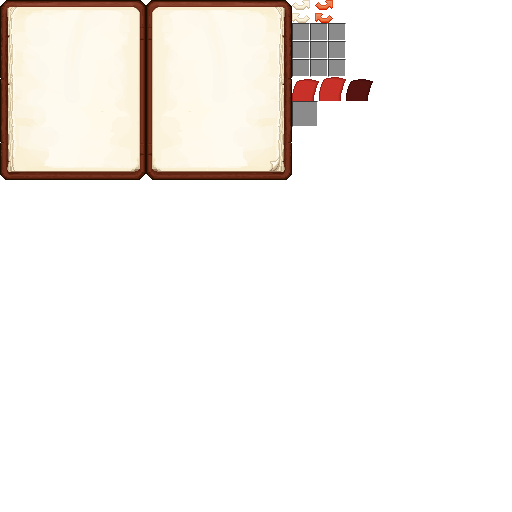
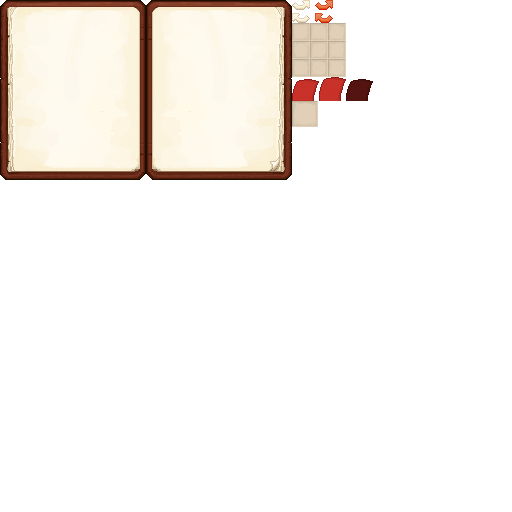
BookWiki changes * Added support for color codes * Centered recipe grid * Tweaked texture * Fixed recipe grid line offset * Fixed server crash

Changed region(s): [[0.5625, 0.0312, 0.6875, 0.1562], [0.5625, 0.1875, 0.625, 0.25]]

diff --git a/src/main/java/net/ilexiconn/bookwiki/BookWikiGui.java b/src/main/java/net/ilexiconn/bookwiki/BookWikiGui.java
@@ -1,10 +1,12 @@
 package net.ilexiconn.bookwiki;
 
+import com.google.common.collect.Lists;
 import net.minecraft.client.audio.PositionedSoundRecord;
 import net.minecraft.client.gui.GuiScreen;
 import net.minecraft.client.renderer.GlStateManager;
 import net.minecraft.client.renderer.RenderHelper;
 import net.minecraft.item.ItemStack;
+import net.minecraft.util.EnumChatFormatting;
 import net.minecraft.util.ResourceLocation;
 import net.minecraft.util.StatCollector;
 import net.minecraftforge.fml.relauncher.Side;
@@ -24,6 +26,8 @@ public class BookWikiGui extends GuiScreen {
     private RecipeRenderer recipeRenderer;
 
     public Pattern recipePattern = Pattern.compile("<r:[A-Za-z0-9]+>");
+    public Pattern colorPattern = Pattern.compile("<c:[A-Za-z]+>");
+    public String[] rainbowChars = new String[]{"4", "6", "e", "a", "9", "5"};
 
     public BookWikiGui(BookWiki bookWiki) {
         this.bookWiki = bookWiki;
@@ -67,7 +71,7 @@ public class BookWikiGui extends GuiScreen {
                 RenderHelper.disableStandardItemLighting();
             }
         }
-        List<String> lines = fontRendererObj.listFormattedStringToWidth(bookWiki.getCategoryByID(currentCategory).getDefaultPage().getContent(), 116);
+        List<String> lines = Lists.newArrayList(fontRendererObj.listFormattedStringToWidth(getContent(bookWiki.getCategoryByID(currentCategory).getDefaultPage()), 116));
         for (int i = 0; i < lines.size(); i++) {
             String line = lines.get(i);
             Matcher matcher = recipePattern.matcher(line);
@@ -77,18 +81,43 @@ public class BookWikiGui extends GuiScreen {
                     line = line.replace(group, "");
                     String id = group.substring(3, group.length() - 1);
                     BookWikiContainer.Recipe recipe = bookWiki.getRecipeByID(id);
-                    fontRendererObj.drawString(line, width / 2 - 292 / 2 + 16, height / 2 - 180 / 2 + 14 + fontRendererObj.FONT_HEIGHT * i, 0x000);
-                    recipeRenderer.render(recipe, width / 2 - 292 / 2 + 16, height / 2 - 180 / 2 + 14 + fontRendererObj.FONT_HEIGHT * (i + 1), mouseX, mouseY);
-                    continue;
+                    recipeRenderer.render(recipe, width / 2 - 292 / 2 + 16 + 16, height / 2 - 180 / 2 + 14 + fontRendererObj.FONT_HEIGHT * (i + 1), mouseX, mouseY);
                 }
                 fontRendererObj.drawString(line, width / 2 - 292 / 2 + 16, height / 2 - 180 / 2 + 14 + fontRendererObj.FONT_HEIGHT * i, 0x000);
             } else {
+                if (matcher.find()) {
+                    String group = matcher.group();
+                    line = line.replace(group, "");
+                    String id = group.substring(3, group.length() - 1);
+                    BookWikiContainer.Recipe recipe = bookWiki.getRecipeByID(id);
+                    recipeRenderer.render(recipe, width / 2 - 292 / 2 + 16 + 16 + 140, height / 2 - 180 / 2 + 14 + fontRendererObj.FONT_HEIGHT * (i - 16), mouseX, mouseY);
+                }
                 fontRendererObj.drawString(line, width / 2 - 292 / 2 + 16 + 140, height / 2 - 180 / 2 + 14 + fontRendererObj.FONT_HEIGHT * (i - 17), 0x000);
             }
         }
         if (hover != null) {
             drawCreativeTabHoveringText(StatCollector.translateToLocal(hover), mouseX, mouseY);
         }
+    }
+
+    public String getContent(BookWikiContainer.Page page) {
+        String result = page.getContent();
+        Matcher matcher = recipePattern.matcher(result);
+        while (matcher.find()) {
+            String group = matcher.group();
+            result = result.replace(group, group + "\n\n\n\n\n\n\n");
+        }
+        matcher = colorPattern.matcher(result);
+        while (matcher.find()) {
+            String group = matcher.group();
+            String id = group.substring(3, group.length() - 1).toUpperCase();
+            EnumChatFormatting formatting = EnumChatFormatting.getValueByName(id);
+            if (formatting != null) {
+                result = result.replace(group, formatting + "");
+            }
+
+        }
+        return result;
     }
 
     @Override
@@ -103,7 +132,7 @@ public class BookWikiGui extends GuiScreen {
                 int y = height / 2 - 180 / 2 - 24 + 7;
                 if (mouseX >= x && mouseY >= y && mouseX < x + 27 && mouseY < y + 24) {
                     currentCategory = category.getID();
-                    mc.getSoundHandler().playSound(PositionedSoundRecord.create(new ResourceLocation("jurassicraft:page-flip"), 1.0F));
+                    mc.getSoundHandler().playSound(PositionedSoundRecord.create(new ResourceLocation(bookWiki.getMod().modid() + ":page-flip"), 1.0F));
                 }
             }
         }

diff --git a/src/main/java/org/jurassicraft/JurassiCraft.java b/src/main/java/org/jurassicraft/JurassiCraft.java
@@ -1,11 +1,7 @@
 package org.jurassicraft;
 
 import net.ilexiconn.bookwiki.BookWiki;
-import net.ilexiconn.bookwiki.BookWikiContainer;
-import net.minecraft.client.Minecraft;
-import net.minecraft.item.ItemStack;
 import net.minecraft.server.MinecraftServer;
-import net.minecraft.util.ResourceLocation;
 import net.minecraft.world.GameRules;
 import net.minecraftforge.common.config.Configuration;
 import net.minecraftforge.fml.common.Mod;
@@ -32,7 +28,6 @@ import org.jurassicraft.common.storagedisc.StorageTypeRegistry;
 import org.jurassicraft.common.world.islanublar.WorldTypeIslaNublar;
 
 import java.io.File;
-import java.io.IOException;
 import java.io.InputStreamReader;
 
 @Mod(modid = JurassiCraft.MODID, name = JurassiCraft.MODNAME, version = JurassiCraft.VERSION, guiFactory = "org.jurassicraft.client.gui.config.GUIFactory", dependencies = "required-after:llibrary@[0.7.1,)")
@@ -83,39 +78,8 @@ public class JurassiCraft
 
         FoodHelper.init();
 
-        try {
-            bookWiki = BookWiki.create(instance, new InputStreamReader(Minecraft.getMinecraft().getResourceManager().getResource(new ResourceLocation(MODID, "bookwiki/bookwiki_test.json")).getInputStream()));
-            logger.info("==================== BookWiki TEST ====================");
-            for (BookWikiContainer.Category category : bookWiki.getContainer().getCategories()) {
-                logger.info("========= Category =========");
-                logger.info(category.getName());
-                logger.info(category.getIcon().getDisplayName());
-                logger.info(category.getDefaultPage().getTitle());
-            }
-            for (BookWikiContainer.Page page : bookWiki.getContainer().getPages()) {
-                logger.info("=========== Page ===========");
-                logger.info(page.getTitle());
-                logger.info(page.getContent());
-                logger.info(page.getCategory().getName());
-            }
-            for (BookWikiContainer.Recipe recipe : bookWiki.getContainer().getRecipes()) {
-                logger.info("========== Recipe ==========");
-                logger.info(recipe.getID());
-                logger.info(recipe.isShapeless());
-                for (ItemStack stack : recipe.getRecipe()) {
-                    if (stack != null) {
-                        logger.info(stack.getDisplayName());
-                    } else {
-                        logger.info("null");
-                    }
-                }
-                logger.info(recipe.getResult().getDisplayName());
-            }
-            logger.info("================== BookWiki TEST END ==================");
-            bookWiki.registerItem();
-        } catch (IOException e) {
-            e.printStackTrace();
-        }
+        bookWiki = BookWiki.create(instance, new InputStreamReader(JurassiCraft.class.getResourceAsStream("/assets/jurassicraft/bookwiki/bookwiki.json")));
+        bookWiki.registerItem();
     }
 
     @Mod.EventHandler
